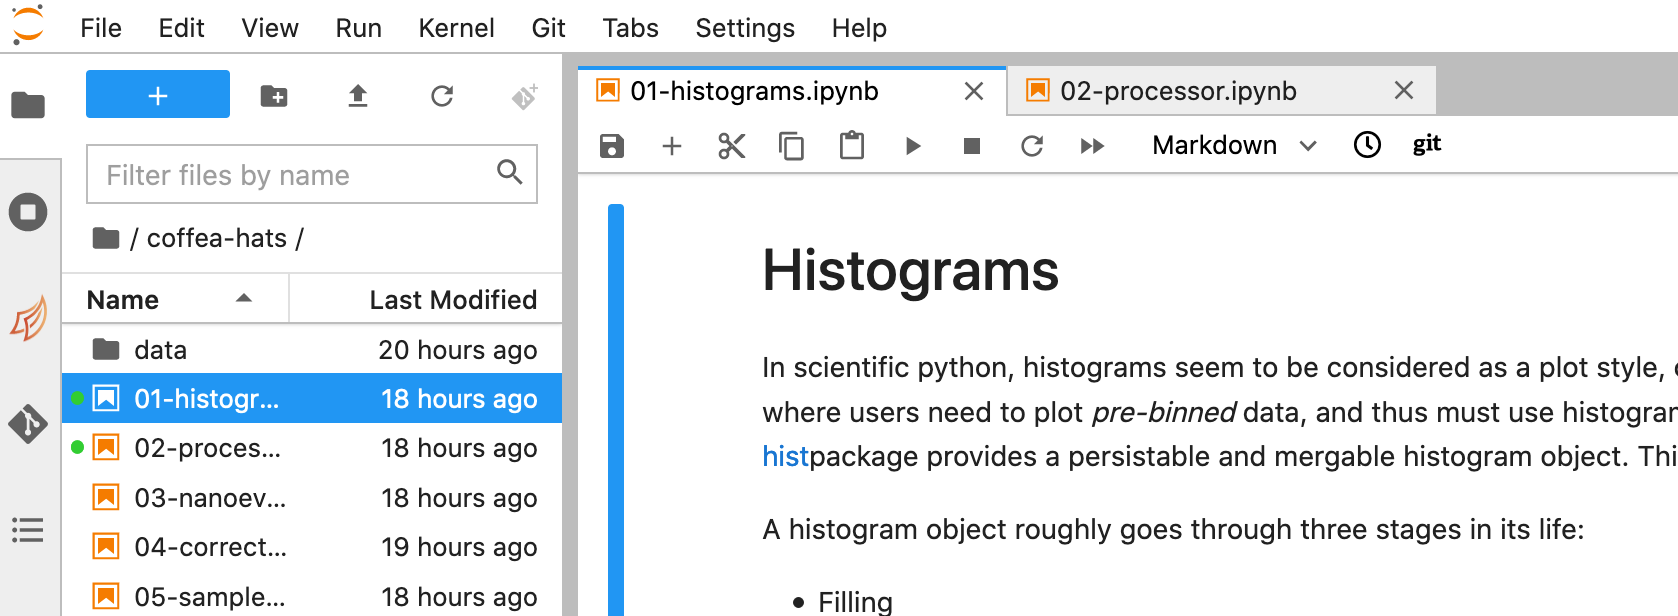
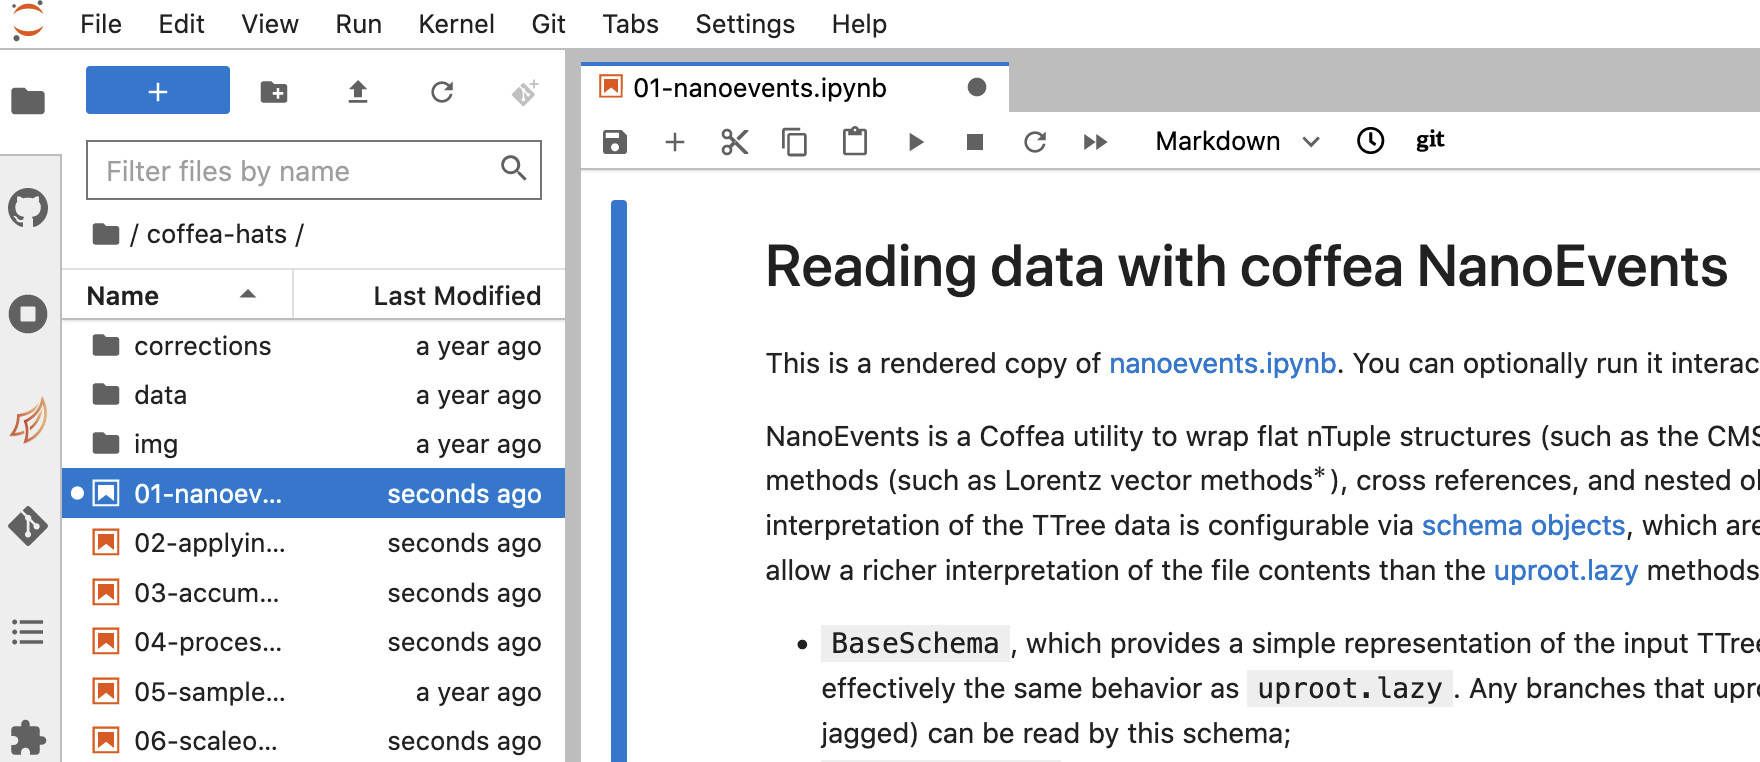
Fix readme

diff --git a/README.md b/README.md
@@ -10,7 +10,7 @@ Follow [these instructions](https://coffea-casa.readthedocs.io/en/latest/cc_user
 In the docker image selection dialog, select the *Coffea Base image*.
 Once loaded, you can clone this repository (`https://github.com/CoffeaTeam/coffea-hats.git`)
 following the [git instructions](https://coffea-casa.readthedocs.io/en/latest/cc_user.html#using-git) further down in the same page.
-Click on the `01-histograms.ipynb` notebook in the left pane to open it, and you should end up with something like this:
+Click on the `01-nanoevents.ipynb` notebook in the left pane to open it, and you should end up with something like this:
 
 ![JupyterLab screen](/img/notebook.png)
 
